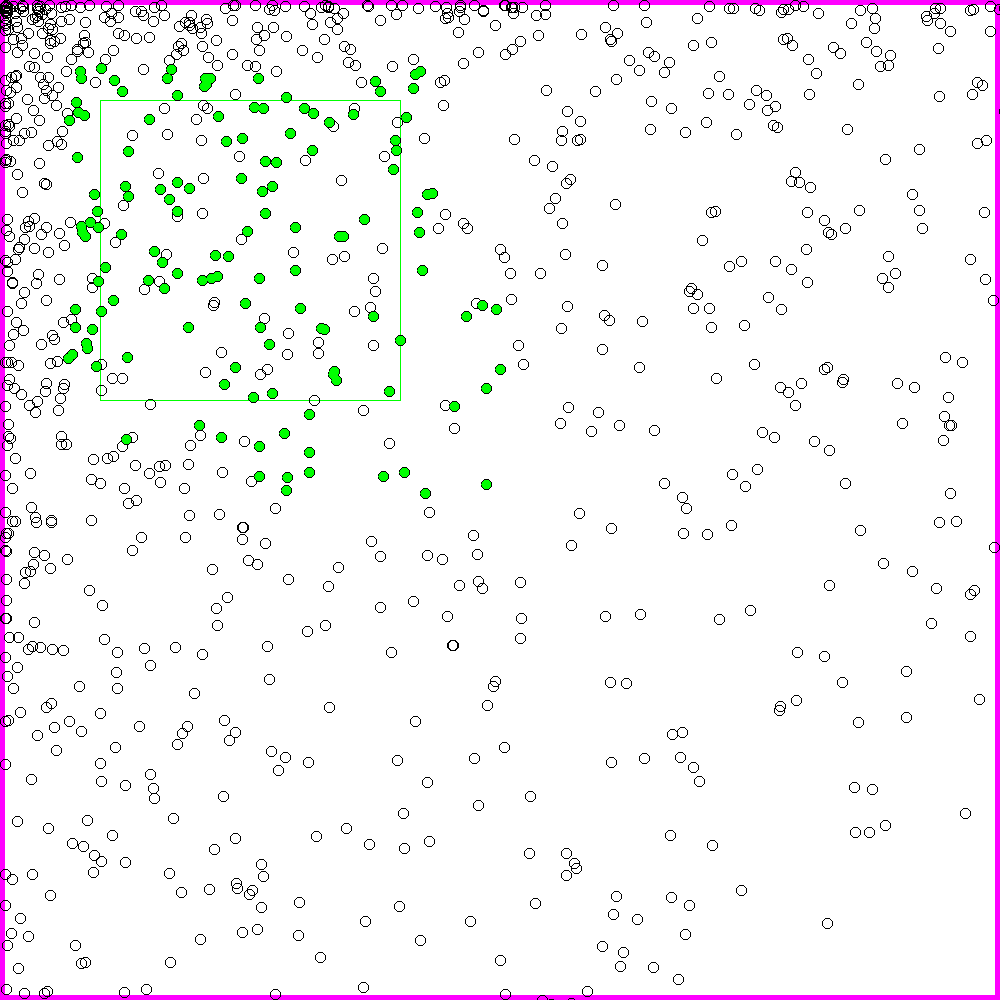
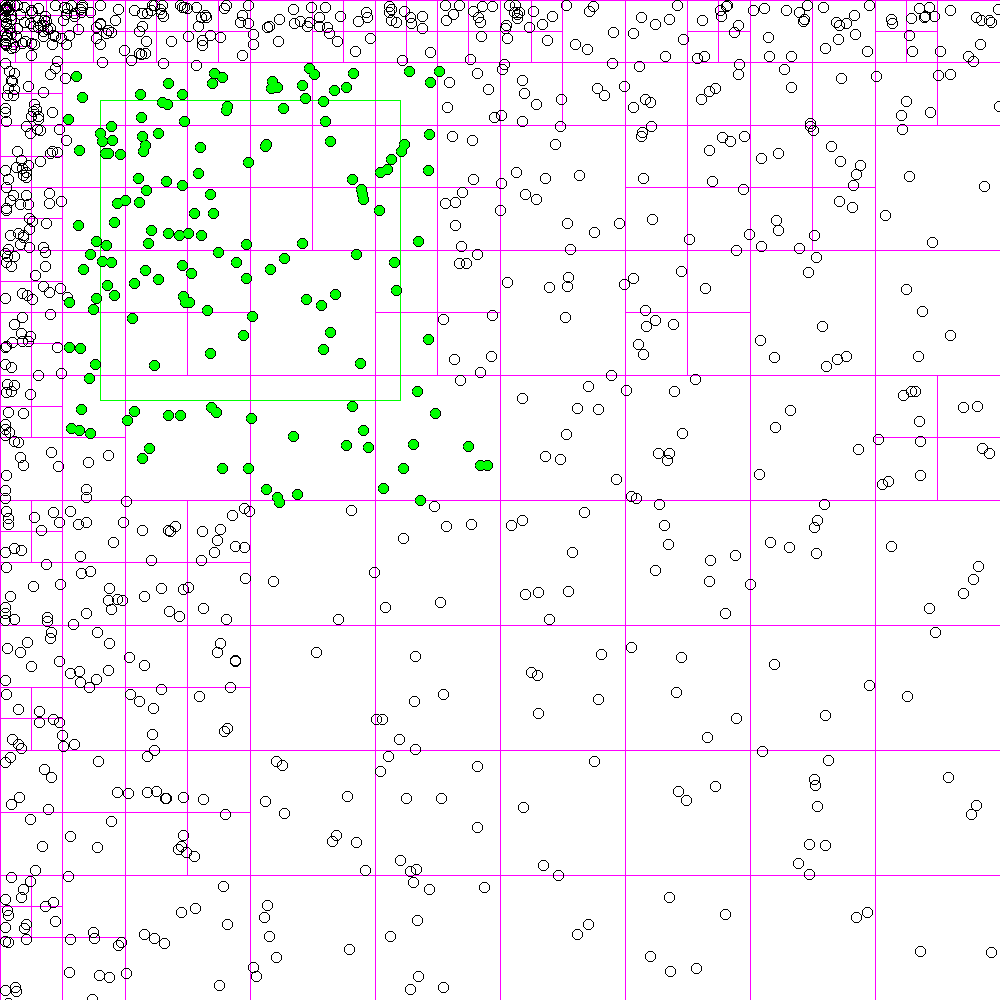
Fixed bugs with boundary touching

diff --git a/src/QuadTree.java b/src/QuadTree.java
@@ -6,6 +6,7 @@ import java.io.IOException;
 import java.util.ArrayList;
 import java.util.HashSet;
 import java.util.Set;
+import java.util.concurrent.Callable;
 
 
 class Node {
@@ -165,13 +166,16 @@ public class QuadTree {
         }
         var tree = new QuadTree(0,new Boundry(0,0,1000,1000));
         var hit = new Hitbox(100,100,400,400);
+
+        for (int i = 0; i < 1000; i++) {
+            tree.insert(new Node(new bullet(xCoords[i],yCoords[i],0,0,false,"",0,0)));
+        }
+
         BufferedImage image = QuadTreeVisualizer.drawQuadTree(tree);
         Graphics get = image.createGraphics();
         get.setColor(Color.GREEN);
         get.drawRect(hit.xMin, hit.yMin, hit.xMax-hit.xMin, hit.yMax-hit.yMin);
-        for (int i = 0; i < 1000; i++) {
-            tree.insert(new Node(new bullet(xCoords[i],yCoords[i],0,0,false,"",0,0)));
-        }
+
         for (int i = 0; i < xCoords.length; i++ ) {
             get.setColor(Color.BLACK);
             get.drawOval(xCoords[i].intValue(),yCoords[i].intValue(),10,10);
@@ -181,7 +185,9 @@ public class QuadTree {
             get.fillOval(node.getX(), node.getY(), 10, 10);
         }
         ImageIO.write(image, "png", new File("img.png"));
+
     }
+
 
     void split() {
         int xOffset = this.boundry.getxMin()
@@ -195,33 +201,40 @@ public class QuadTree {
         southEast = new QuadTree(this.level + 1, new Boundry(xOffset, yOffset, this.boundry.getxMax(), this.boundry.getyMax()));}
 
     void insert(Node node) {
-        if (!this.boundry.inRange(node.getX(), node.getY())) {
-            return;
-        }
-        if (nodes.size() < MAX_CAPACITY) {
-            nodes.add(node);
-            return;
-        }
-        // Exceeded the capacity so split it in FOUR
-        if (northWest == null) {
-            split();
-            for (Node varnode : nodes) {
-                insert(varnode);
-            }
-            nodes.clear();
-        }
+//        if (!this.boundry.inRange(node.getX(), node.getY())) {
+//            return;
+//        }
 
-        // Check coordinates belongs to which partition
-        if (this.northWest.boundry.inRange(node.getX(), node.getY()))
-            this.northWest.insert(node);
-        else if (this.northEast.boundry.inRange(node.getX(), node.getY()))
-            this.northEast.insert(node);
-        else if (this.southWest.boundry.inRange(node.getX(), node.getY()))
-            this.southWest.insert(node);
-        else if (this.southEast.boundry.inRange(node.getX(), node.getY()))
-            this.southEast.insert(node);
-        else
-            System.out.printf("ERROR : Unhandled partition %d %d", node.getX(), node.getY());
+        // Exceeded the capacity so split it in FOUR
+
+        if (northWest == null) {
+            // Has no child, is leaf
+            if (nodes.size() < MAX_CAPACITY) {
+                // has room
+                nodes.add(node);
+            } else {
+                // has no room
+                split();
+                insert(node);
+                for (Node varnode : nodes) {
+                    insert(varnode);
+                }
+                nodes.clear();
+            }
+        } else {
+            // has child, is parent
+            // Check coordinates belongs to which partition
+            if (this.northWest.boundry.inRange(node.getX(), node.getY()))
+                this.northWest.insert(node);
+            else if (this.northEast.boundry.inRange(node.getX(), node.getY()))
+                this.northEast.insert(node);
+            else if (this.southWest.boundry.inRange(node.getX(), node.getY()))
+                this.southWest.insert(node);
+            else if (this.southEast.boundry.inRange(node.getX(), node.getY()))
+                this.southEast.insert(node);
+            else
+                System.out.printf("ERROR : Unhandled partition %d %d", node.getX(), node.getY());
+        }
     }
 }
 
@@ -263,7 +276,7 @@ public class QuadTree {
 
         Rectangle rect = new Rectangle(node.boundry.getxMin(), node.boundry.getyMin(), node.boundry.getxMax() - node.boundry.getxMin(), node.boundry.getyMax() - node.boundry.getyMin());
         graphics.setColor(new Color(25,255,255));
-        graphics.setStroke(new BasicStroke(10));
+        graphics.setStroke(new BasicStroke(1));
         graphics.drawRect((int) (s*rect.getX()), (int) (s*rect.getY()),
                 s*(int)rect.getWidth(), s*(int)rect.getHeight());
 
